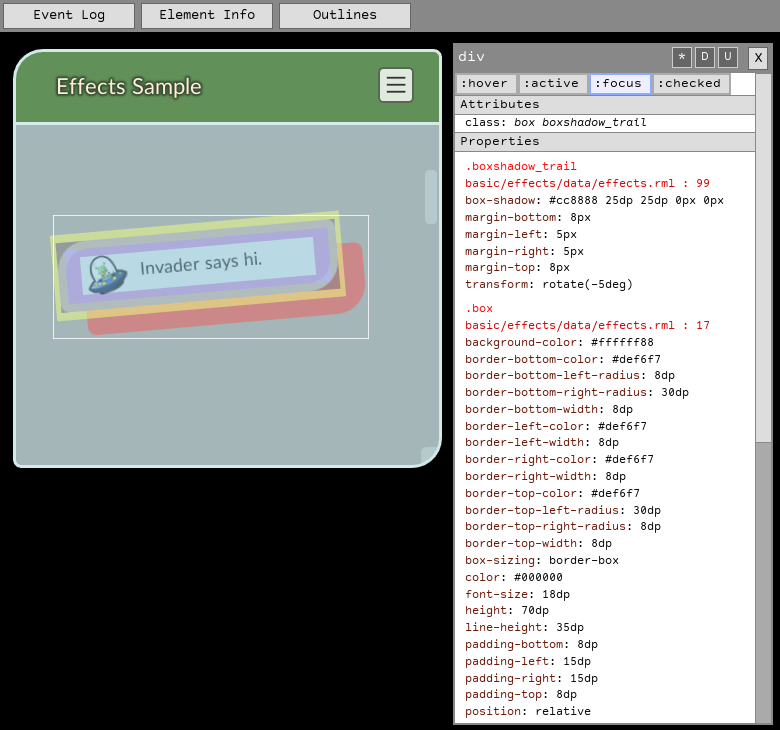
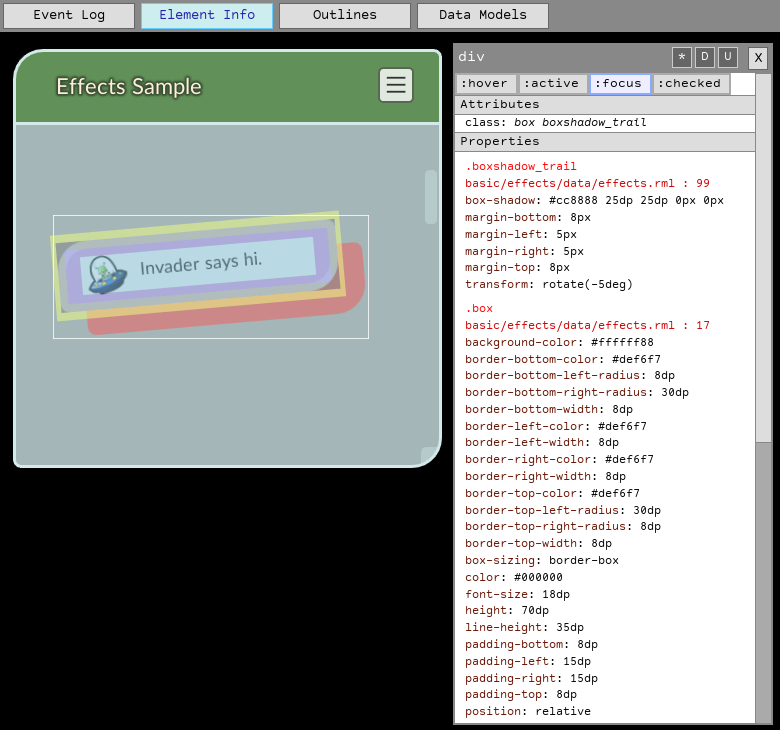
Add debugger data models window

Changed region(s): [[0.5231, 0.0, 0.7077, 0.0603], [0.1846, 0.0, 0.3385, 0.0301]]

diff --git a/pages/cpp_manual/debugger.md b/pages/cpp_manual/debugger.md
@@ -49,6 +49,12 @@ The following image shows the debugger in action. An element is selected, its de
 
 ![Debugger screenshot](../../assets/images/debugger.png)
 
+#### Data models
+
+When clicking the `Data Models` button, the data models window opens up. This window allows inspecting the values of all data variables in the data models of the context being debugged. The data variables are sectioned by each data model.
+
+![Debugger data models screenshot](../../assets/images/debugger-data-models.png)
+
 ### Initialisation
 
 To integrate the debugger into your application, link with `rmlui_debugger`{:.incl} or the imported CMake target `RmlUi::Debugger`{:.incl}. Then, include `<RmlUi/Debugger.h>`{:.incl} in a source file.
